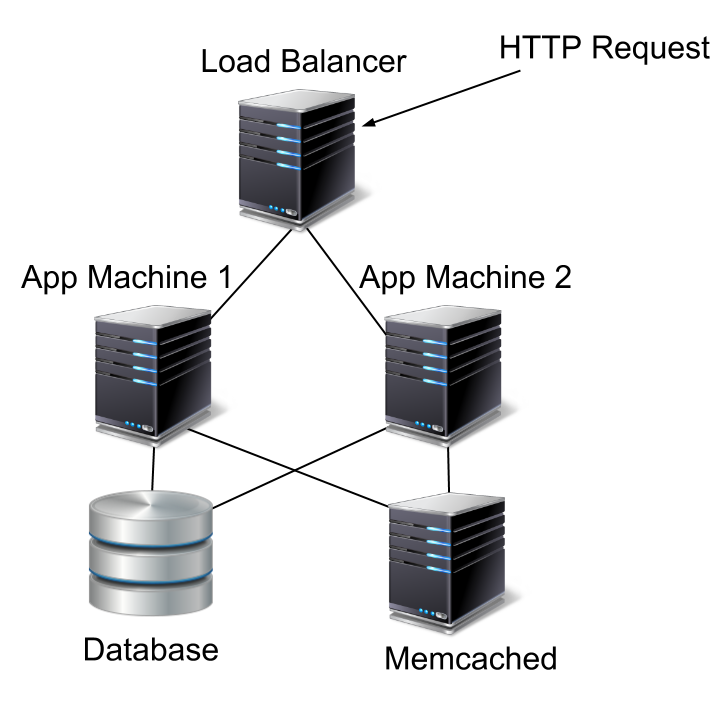
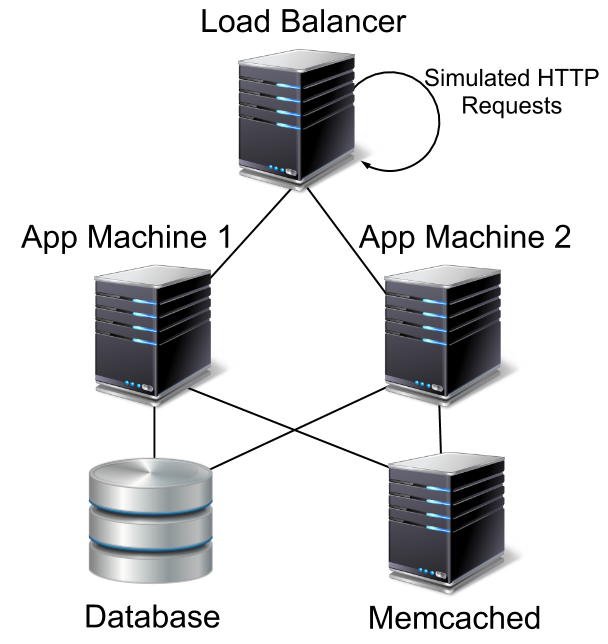
Fix architecture graphics

Changed region(s): [[0.0312, 0.0, 1.0, 0.9938], [0.7188, 0.1863, 0.75, 0.2174], [0.6875, 0.2174, 0.7188, 0.2484]]

diff --git a/thesis.tex b/thesis.tex
@@ -831,14 +831,12 @@ This machine runs \textsf{MySQL} {\tt 5.5.29 Percona Server} with EBS-striped vo
 The application machines are {\tt c1.medium} instances with 1.7 GiB of memory and 5 EC2 Compute Units (2 virtual cores with 2.5 EC2 Compute Units each).
 More information regarding EC2 specs can be found on AWS's website \cite{awsInstanceTypes}.
 
-% TODo: Change HTTP request to be simulated requests coming from and to the load balancer.
 \begin{figure}[h]
 \centering
-\includegraphics[width=\textwidth]{assets/experimentalArchitecture.png}
+\includegraphics[width=0.75\textwidth]{assets/experimentalArchitecture.png}
 \caption{Experimental Setup}
 \label{fig:experimentalArchitecture}
 \end{figure}
-
 
 We then replay the requests in the 2 test sets with and without our caching strategy for a total of 4 runs.
 Requests are performed using a NodeJS script running on the load balancer making requests to {\tt localhost} to reduce latency between the simulated client and the web servers.
